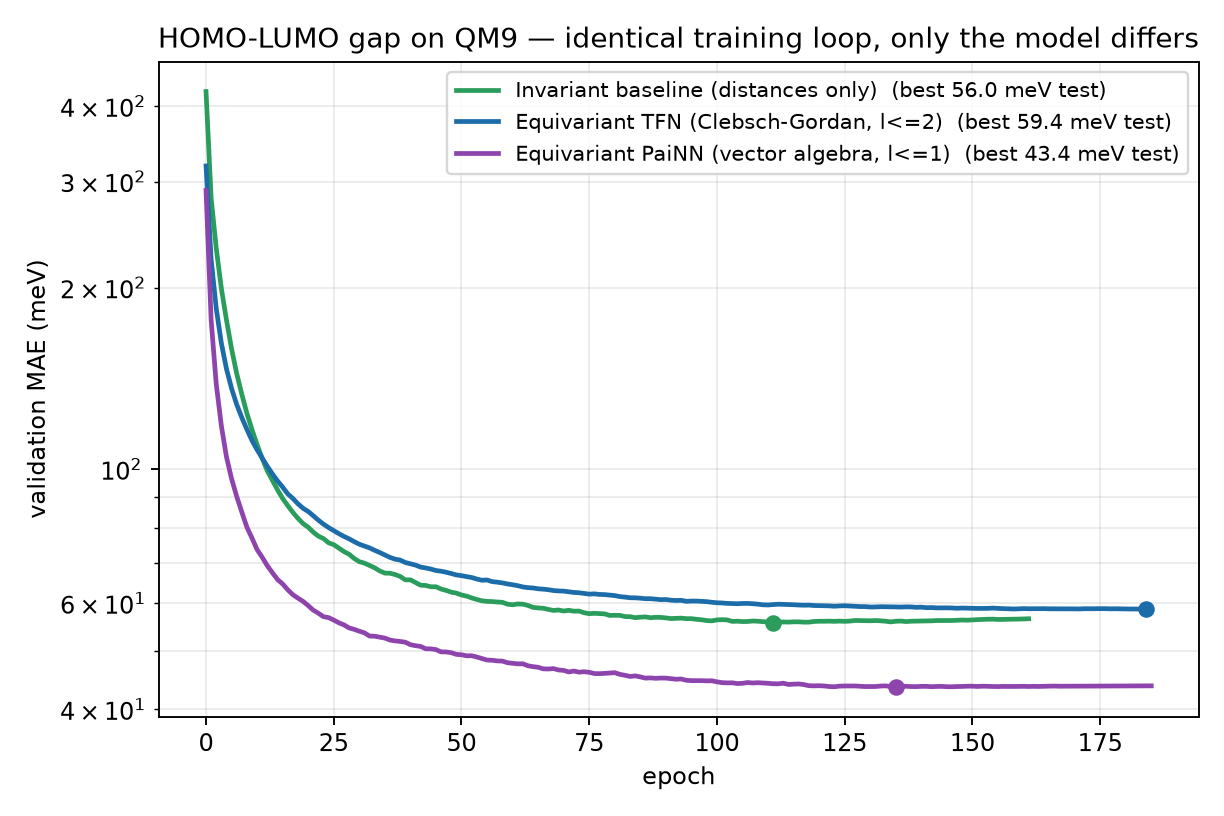
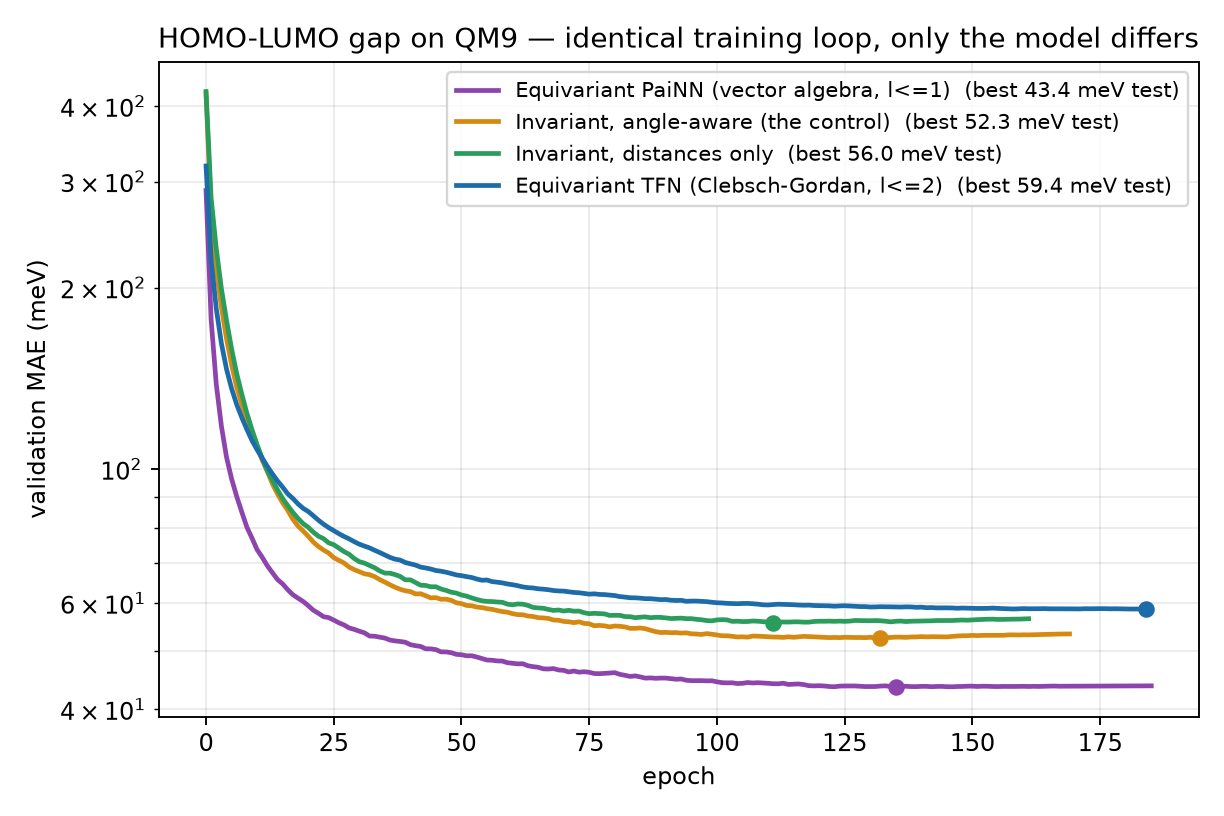
Angle-aware control lands: equivariance is not just angle-awareness
The angular control finished (recovered from checkpoint at epoch 132 of 170; the
session ended before results.json was written, and validation had been flat for
~35 epochs). It breaks the confound that PaiNN's win had been resting on.

  model                    equivariant  angles  test MAE  ms/step
  PaiNN (l<=1)                     yes     yes  43.43        13.3
  angle-aware invariant             no     yes  52.27        71
  distance-only baseline            no      no  56.03         6.9
  TFN (l_max=2)                    yes     yes  59.43        67.9

Until now every equivariant model here also saw angles, and the only angle-free
model was also the only non-equivariant one, so PaiNN's 22.5% advantage had an
ambiguous cause. It now decomposes:

  angles alone, invariant form  56.03 -> 52.27   -6.7%
  equivariance on top           52.27 -> 43.43  -16.9%

Angular information accounts for under a third of the advantage. Equivariance
contributes about 2.5x more, so it is not merely an expensive route to angles --
the alternative explanation I could not previously rule out.

The mechanism this points at: the angular model reads angles as P_l(cos theta) and
collapses them to scalars immediately, so a later layer cannot compose them
geometrically, whereas an equivariant model carries direction forward as an l>0
feature that subsequent layers keep operating on. Both see the same angles; what
differs is whether the information survives the next layer.
[…]

diff --git a/scripts/make_results_plots.py b/scripts/make_results_plots.py
@@ -29,12 +29,19 @@ RUNS = Path.home() / ".symmetrynet" / "runs"
 BASELINE_COLOR = "#2a9d5c"
 TFN_COLOR = "#1b6ca8"
 PAINN_COLOR = "#8e44ad"
+ANGULAR_COLOR = "#d68910"
 LABELS = {
-    "baseline": "Invariant baseline (distances only)",
+    "baseline": "Invariant, distances only",
+    "angular": "Invariant, angle-aware (the control)",
     "tfn": "Equivariant TFN (Clebsch-Gordan, l<=2)",
     "painn": "Equivariant PaiNN (vector algebra, l<=1)",
 }
-COLORS = {"baseline": BASELINE_COLOR, "tfn": TFN_COLOR, "painn": PAINN_COLOR}
+COLORS = {
+    "baseline": BASELINE_COLOR,
+    "angular": ANGULAR_COLOR,
+    "tfn": TFN_COLOR,
+    "painn": PAINN_COLOR,
+}
 
 
 def load(name: str) -> list[dict] | None:

diff --git a/README.md b/README.md
@@ -149,15 +149,42 @@ works. Hence per-component normalisation throughout above.
 </details> Note the
 baseline line already sits below all three bars — which is the next result.
 
-### The headline: equivariance wins, but only with the right architecture
+### The headline: equivariance wins, and it is not just angle-awareness
 
-All three at 200 epochs, same loop, same data, same schedule:
+All four at 200 epochs, same loop, same data, same schedule:
 
-| model | equivariance via | params | test MAE | train time |
-|---|---|---|---|---|
-| **Equivariant PaiNN** (`l<=1`) | vector algebra | 576k | **43.43 meV** | 81 min |
-| Distance-only baseline | discards direction | 277k | 56.03 meV | 37 min |
-| Equivariant TFN (`l_max=2`) | Clebsch-Gordan products | 573k | 59.43 meV | 277 min |
+| model | equivariant? | sees angles? | params | test MAE | ms/step |
+|---|---|---|---|---|---|
+| **Equivariant PaiNN** (`l<=1`) | ✔ | ✔ | 576k | **43.43 meV** | 13.3 |
+| Angle-aware invariant | ✘ | ✔ | 369k | 52.27 meV | 71 |
+| Distance-only baseline | ✘ | ✘ | 277k | 56.03 meV | 6.9 |
+| Equivariant TFN (`l_max=2`) | ✔ | ✔ | 573k | 59.43 meV | 67.9 |
+
+The angle-aware invariant model is the control that makes this readable. Without it,
+equivariance and angular information are confounded — every equivariant model here also
+sees angles, and the only angle-free model is also the only non-equivariant one. With it,
+the 22.5% gap decomposes:
+
+- **angles alone, in invariant form: 56.03 → 52.27 meV (−6.7%)**
+- **equivariance on top of that: 52.27 → 43.43 meV (−16.9%)**
+
+So angular information accounts for under a third of PaiNN's advantage. **Equivariance
+contributes roughly two and a half times more than angle-awareness does** — it is not
+merely an expensive way to obtain angles, which was the live alternative explanation.
+
+The mechanism is visible in the design. The angular model reads angles as
+:math:`P_\ell(\cos\theta)` and immediately collapses them to scalars, so a later layer
+cannot compose them geometrically. An equivariant model carries direction forward as an
+`l>0` feature that later layers can keep operating on. Access to angles is the same; what
+differs is whether that information survives the next layer.
+
+The cost column sharpens it further. The angle-aware model is **5× slower per step than
+PaiNN and still 20% worse**: enumerating ~414k explicit triplets per batch is a strictly
+worse deal than equivariant vector algebra, which obtains the same angular content as a
+by-product of its representation.
+
+And the TFN — equivariant, `l_max=2` — is beaten by an *invariant* model. Being
+equivariant is no guarantee of anything by itself.
 
 PaiNN beats the baseline by **22.5%** and the TFN by **26.9%** — and does it in under a
 third of the TFN's compute at the same parameter count. Published PaiNN on this exact

diff --git a/docs/report.md b/docs/report.md
@@ -196,11 +196,42 @@ representational claim.
 **Equivariance wins decisively — but only after changing which equivariant architecture is
 used.** At a matched 200-epoch budget:
 
-| model | equivariance via | params | test MAE | time |
-|---|---|---|---|---|
-| PaiNN (`l<=1`) | vector algebra | 576k | **43.43 meV** | 81 min |
-| distance-only baseline | discards direction | 277k | 56.03 meV | 37 min |
-| TFN (`l_max=2`) | Clebsch-Gordan | 573k | 59.43 meV | 277 min |
+| model | equivariant? | sees angles? | params | test MAE | ms/step |
+|---|---|---|---|---|---|
+| PaiNN (`l<=1`) | yes | yes | 576k | **43.43 meV** | 13.3 |
+| angle-aware invariant | no | yes | 369k | 52.27 meV | 71 |
+| distance-only baseline | no | no | 277k | 56.03 meV | 6.9 |
+| TFN (`l_max=2`) | yes | yes | 573k | 59.43 meV | 67.9 |
+
+The third row is a control I added late, and I should have had it from the start. Without
+it the experiment confounds two things: every equivariant model also sees angles, and the
+only angle-free model is also the only non-equivariant one. PaiNN beating the baseline was
+therefore ambiguous — equivariance, or merely angular information?
+
+The angle-aware invariant model separates them. It reads bond angles as
+:math:`P_\ell(\cos\theta)`, which by the addition theorem is exactly the invariant
+contraction of two degree-:math:`\ell` harmonics — the :math:`\ell \otimes \ell \to 0` path
+of a Clebsch-Gordan product written without the machinery. So it receives the same angular
+content an equivariant network builds, in invariant form, and the 22.5% gap decomposes:
+
+* angles alone: 56.03 → 52.27 meV, −6.7%
+* equivariance on top: 52.27 → 43.43 meV, −16.9%
+
+Angular information accounts for under a third of the advantage. Equivariance contributes
+about two and a half times more, so it is not simply an expensive route to angles — which
+was the live alternative explanation and the one I could not previously rule out.
+
+The mechanism this points to is specific. The angular model collapses angles to scalars at
+the moment it reads them, so a later layer cannot compose them geometrically; an
+equivariant model carries direction forward as an :math:`\ell > 0` feature that subsequent
+layers keep operating on. Both see the same angles. What differs is whether that
+information survives the next layer, and that appears to be worth more than the angles
+themselves.
+
+Cost makes the same point from the other side. The angle-aware model runs 5x slower per
+step than PaiNN and is still 20% worse: enumerating ~414k explicit triplets per batch is a
+strictly worse bargain than equivariant vector algebra, which gets the same angular content
+as a by-product of its representation rather than as an extra computation.
 
 Three claims stack here, and the order they arrived in is the point of the whole project.
 
